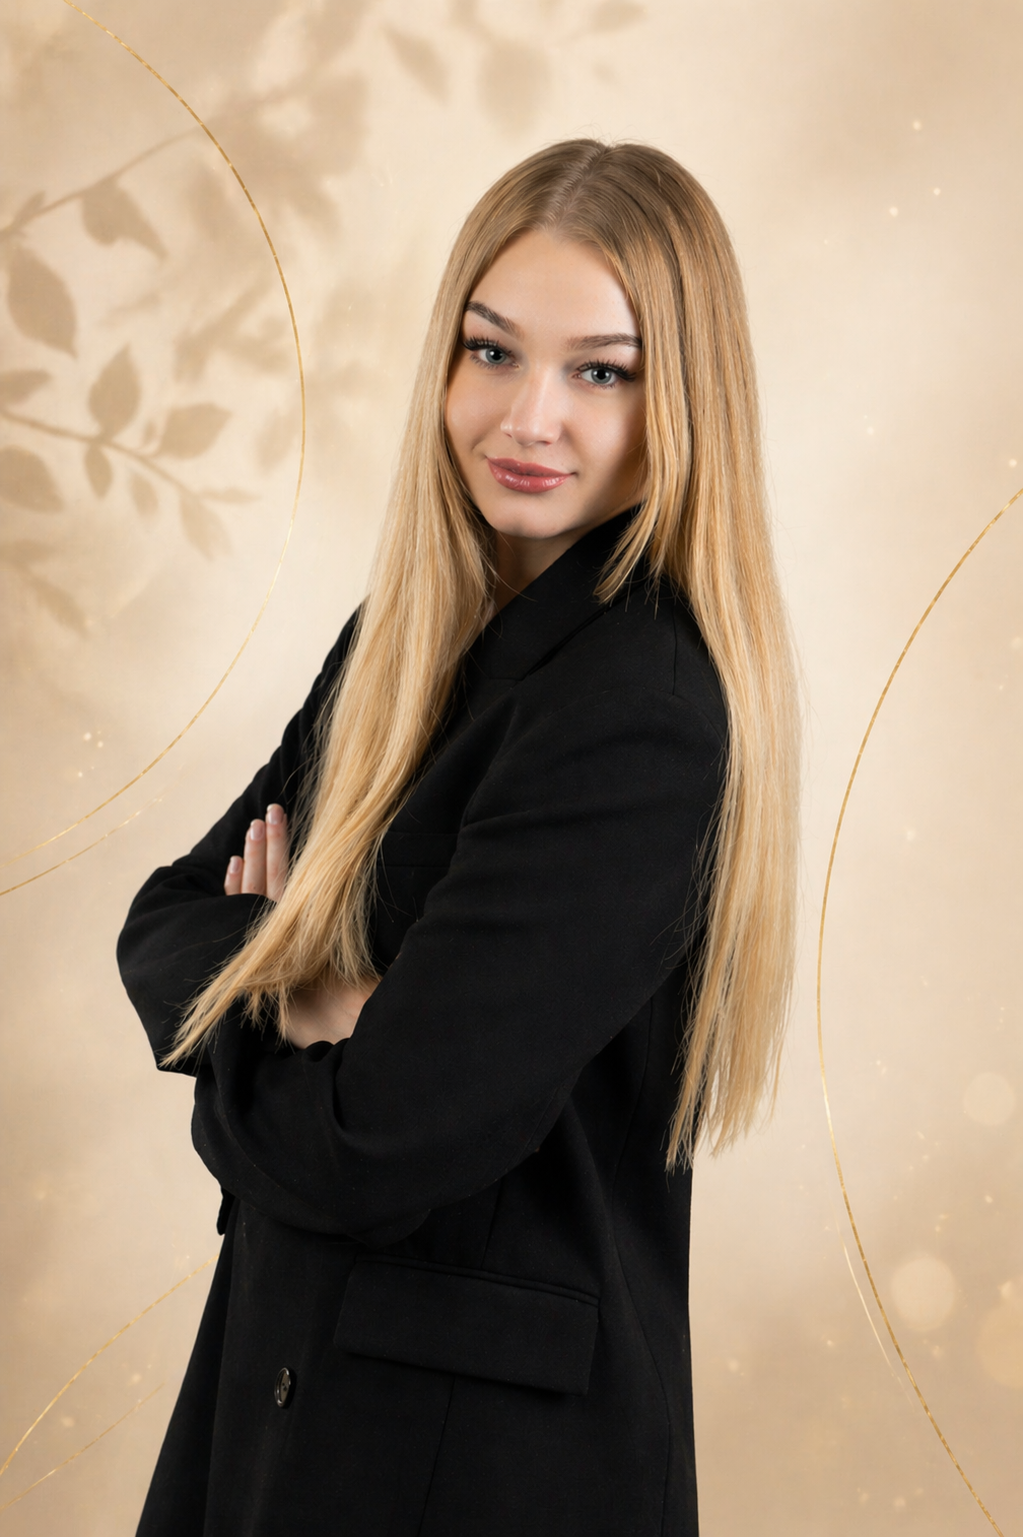
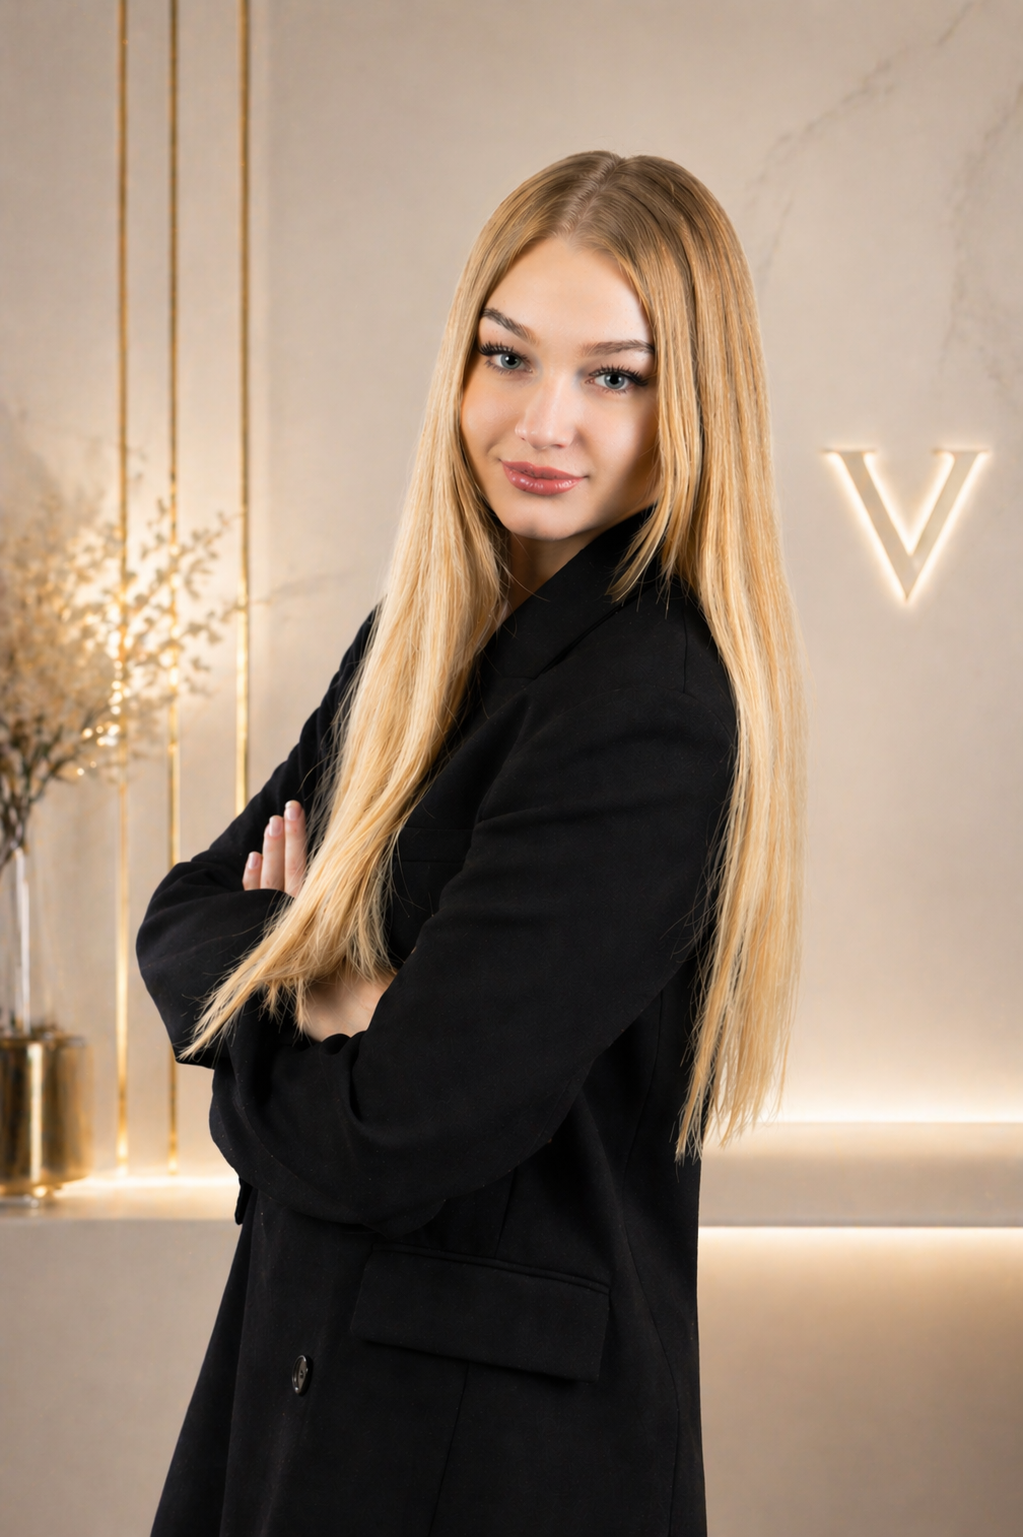
update finish

diff --git a/style.css b/style.css
@@ -168,6 +168,11 @@ section p {
   margin-bottom: 1rem;
   color: #7a6a58;
 }
+
+.job {
+  color: #f4ead7;
+}
+
 .job .date {
   font-size: 0.75rem;
   letter-spacing: 0.12em;
@@ -179,6 +184,10 @@ section p {
   font-size: 1.05rem;
   font-weight: 600;
   margin-bottom: 0.4rem;
+}
+
+.job:hover h3 {
+  text-shadow: 0 0 10px rgba(198, 161, 91, 0.45);
 }
 
 .job p {
@@ -515,19 +524,23 @@ footer a:hover {
 
 .cursor-glow {
   position: fixed;
-  top: 0;
-  left: 0;
-  width: 600px;
-  height: 600px;
+  width: 420px;
+  height: 420px;
+  border-radius: 50%;
   pointer-events: none;
+  z-index: 0;
+
   background: radial-gradient(
-    circle at center,
-    rgba(198, 161, 91, 0.15),
-    transparent 60%
+    circle,
+    rgba(198, 161, 91, 0.35) 0%,
+    rgba(198, 161, 91, 0.18) 40%,
+    rgba(198, 161, 91, 0.08) 65%,
+    transparent 75%
   );
+
   transform: translate(-50%, -50%);
-  z-index: 9999;
-  transition: opacity 0.3s ease;
+  transition: transform 0.08s linear;
+  filter: blur(45px);
 }
 
 .side-nav .nav-link {
